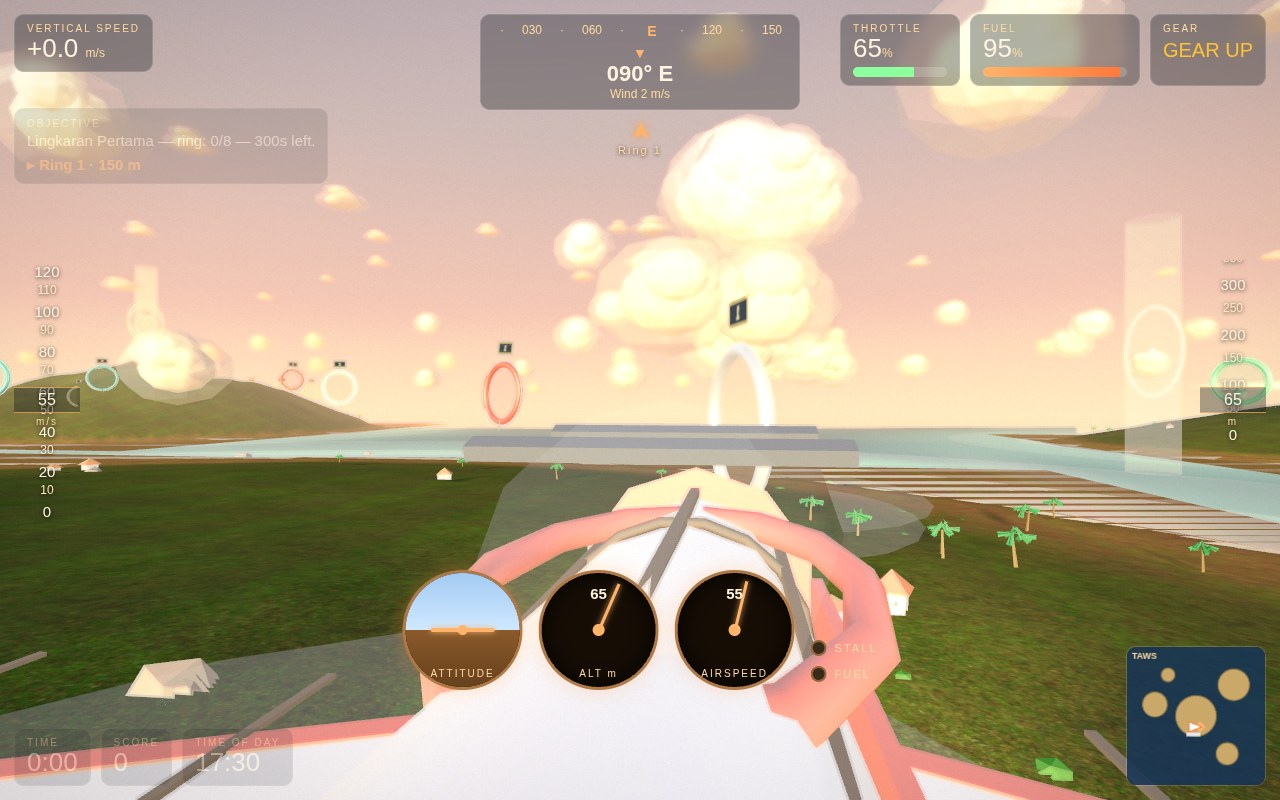
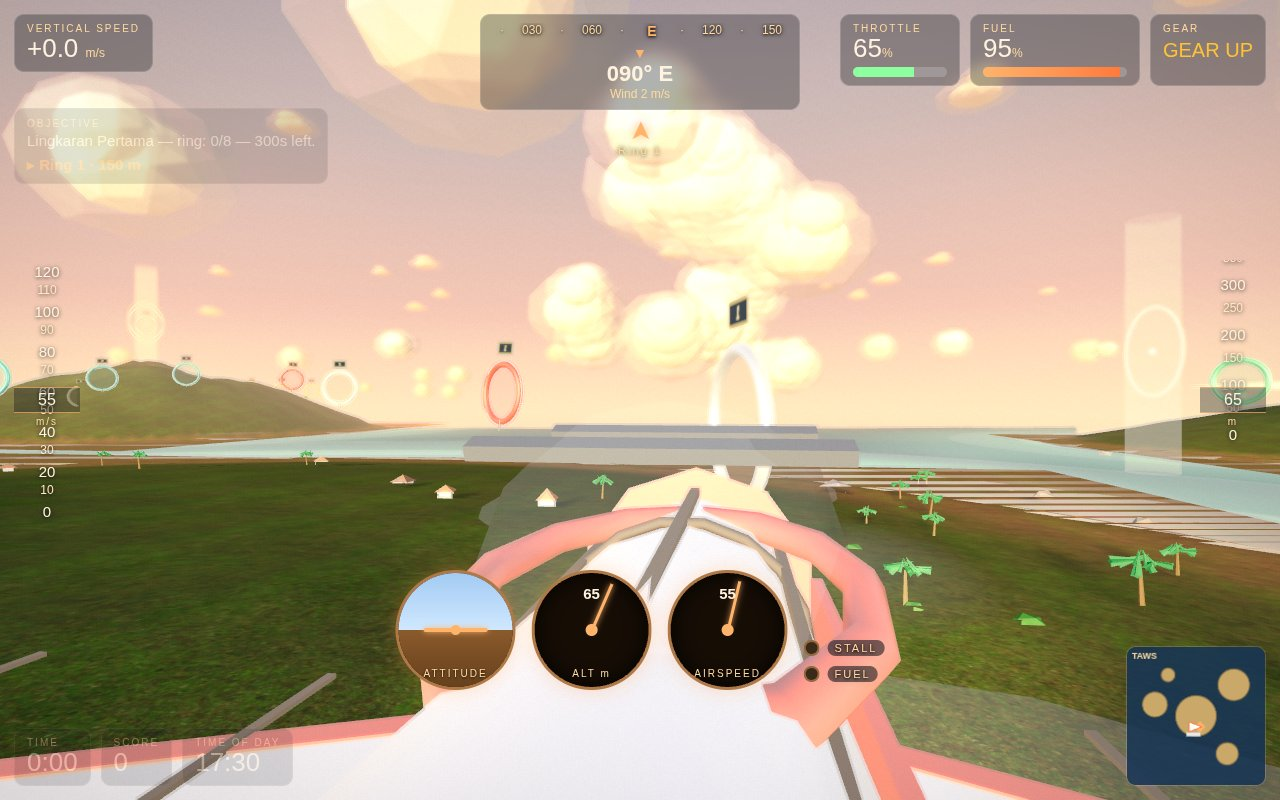
R2-11d: re-shoot cockpit/hangar/boss — HUD labels readable, combat HUD in boss shot
- 2-cockpit.jpg: re-shot, STALL/FUEL now crisp in dark pills (R2-11a2),
  compass ticks + gauge labels shadowed; canopy glass + gauges unchanged.
- 4-hangar.jpg: re-shot, trimmed panel (R2-11b2) fully in frame,
  medals note last line visible, plane big, all sections visible.
- 3-boss.jpg: re-shot at ring-1 pose; combat now reads in HUD
  (objective drone count + 'Tembak [Space] — siap · Drone jatuh 0/3').
  Ring-3 poses tried twice to put a drone in frame (drone confirmed
  in crop, red eye + amber ring) but both frames were worse than the
  R2-10 shot (speck at 120 m; green hill + lost gold ring at 60 m),
  so the R2-10 composition stands.
- shots.js: boss preset spawns boss drones in the posed frame too
  (weapons.update once via window.__flightGame), arming the weapon
  HUD line; drones sit off-frame at the ring-1 pose.
- 1-cover.jpg unchanged (HUD shadow change does not materially
  affect the chase view).
Verified headless (Playwright + SwiftShader, serve.ts :8080):
0 console errors in every run; 1280x800, all <=256 KiB;
dossier.json regenerates with the new images, 0 http refs.

diff --git a/game/src/shots.js b/game/src/shots.js
@@ -107,6 +107,14 @@ export function createShots(render, flight, world, missions) {
       // northbound pose inside the cell was tried and reverted: at
       // ~1 fps the chase camera never settles on the new yaw in the
       // screenshot window and storm ring 4 never entered the frame.)
+      // R2-11d: a ring-3 pose (480/540, -1100) was tried twice to
+      // put the drone pengintai in frame — the drone IS there (red
+      // eye + amber ring, confirmed in a crop) but reads as a speck
+      // at 120 m and the frame loses the big gold ring + dark storm
+      // sky to a green hill at 60 m; both tries are worse than the
+      // ring-1 shot, so the pose stays at ring 1 and the R2-10
+      // boss frame stands. The combat still reads in this shot
+      // through the HUD: objective drone count + weapon line below.
       // Storm is switched on here (posed frames never run the live
       // storm branch in main.js) so setTimeOfDay below picks the
       // overcast env map. (HUD target still names ring 1 — posed
@@ -118,6 +126,18 @@ export function createShots(render, flight, world, missions) {
       // 0.7 keeps the afterburner off so the livery is not blown
       // out a second time. Normal-play lightning is untouched.
       startForShot(11, 'free');
+      // R2-11d: spawn the boss drones in the posed frame too —
+      // weapons.update only runs in live play, so a posed boss
+      // shot would otherwise never arm the weapon HUD line. One
+      // tick spawns them at their anchors (setSortie 'boss'); the
+      // posed frame freezes them there. At this ring-1 pose they
+      // sit hundreds of metres off-frame, so the shot keeps its
+      // R2-10 composition and gains only the weapon line.
+      if (typeof window !== 'undefined' && window.__flightGame
+          && window.__flightGame.weapons
+          && typeof window.__flightGame.weapons.update === 'function') {
+        window.__flightGame.weapons.update(0.016, false, 'boss');
+      }
       pose(120, 88, 300, -90, 0, 80, 0.7, 15);
       render.setView('chase');
       if (render && typeof render.setStorm === 'function') render.setStorm(true);
